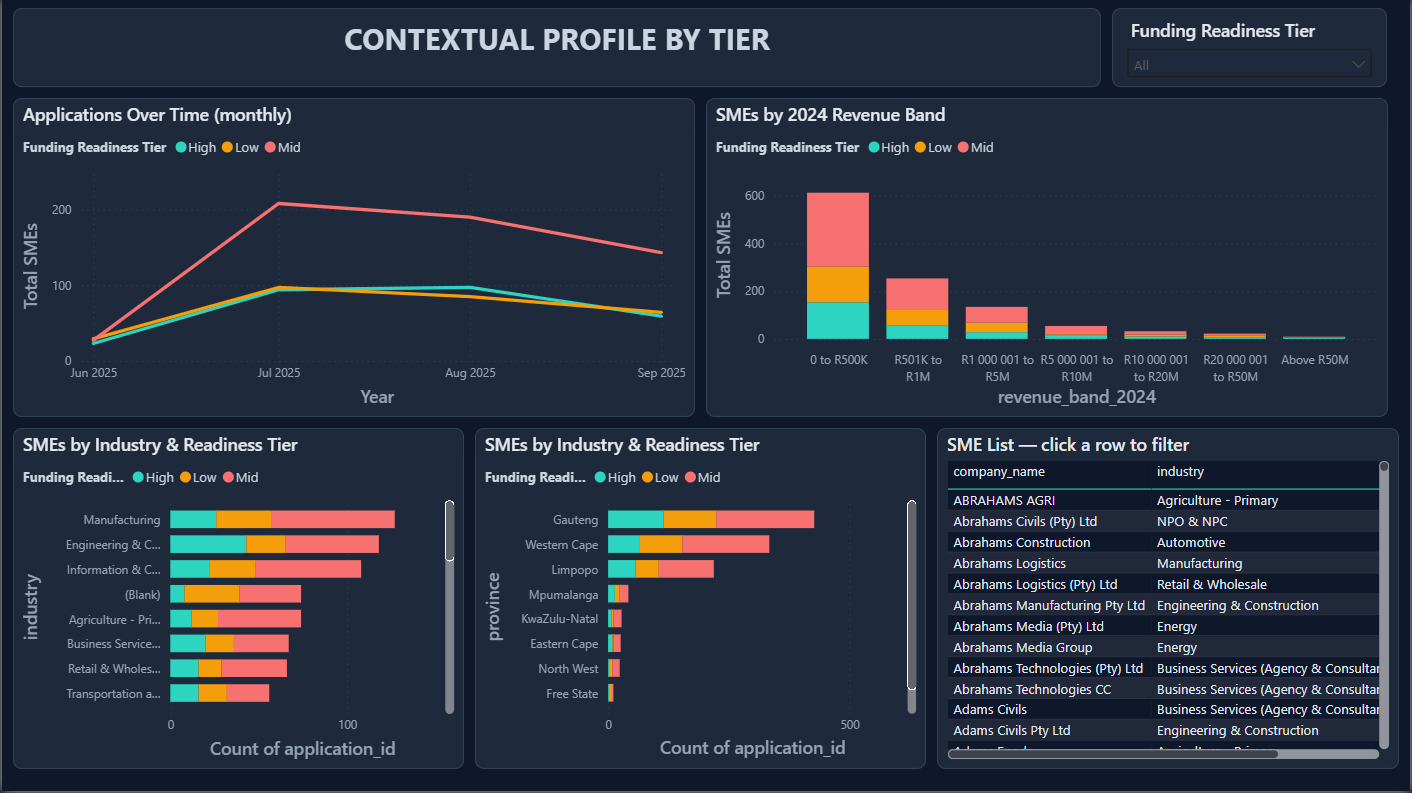
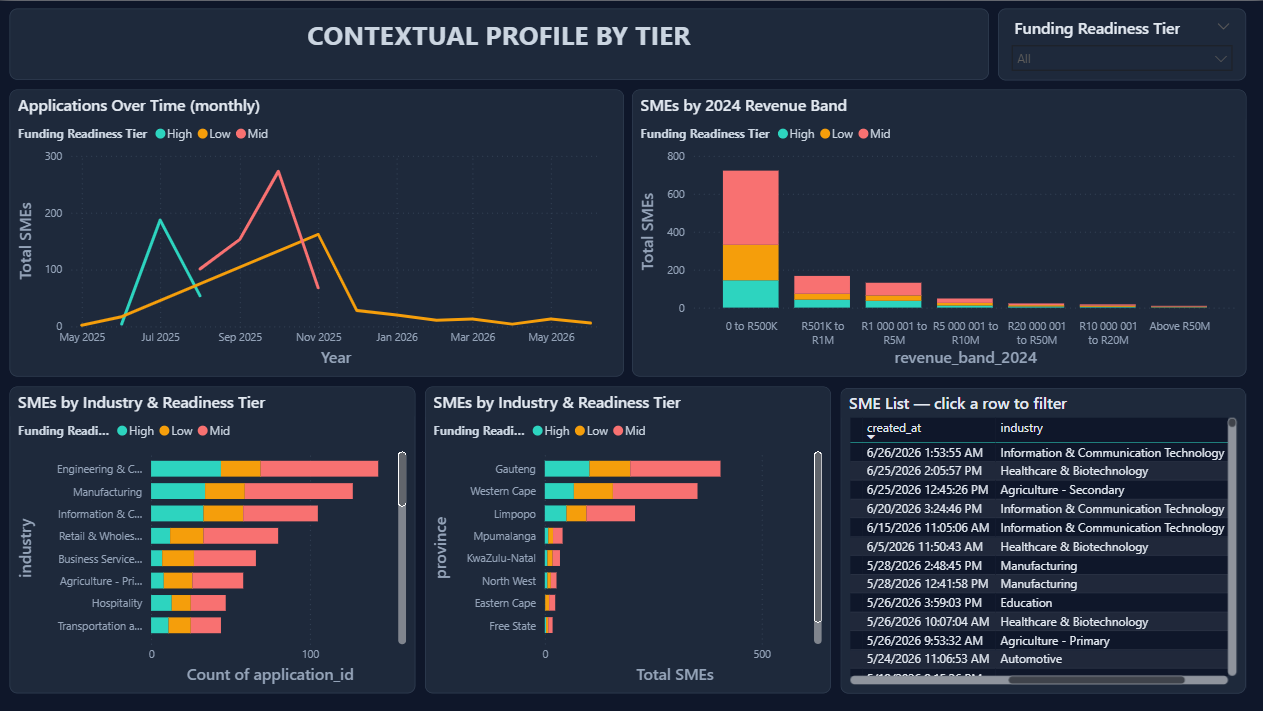
Update

diff --git a/README.md b/README.md
@@ -1,134 +1,73 @@
-**Built a data workflow that sorts 1,100+ SME capital funding applications into three funding-readiness tiers, and set out a recommended strategy for each tier to increase the number of businesses connected with investors.**
+### Overview
 
-**Optimize the SME Campaign conversion rate by connecting the most viable SME candidates to investors as early as possible.  every early completed deal builds the programme's reputation and contributes to the JSE's SME outreach success.**
+**The JSE's SME Capital Matching Initiative connects small businesses with investors and capital to support their growth. In 2025, the initiative received more than 1,100 applications. This number was too large for the team to review and rank manually. To address this, I built a data workflow that scores each applicant on the factors investors consider most important, including B-BBEE transformation credentials, revenue history, capital requested, current number of employees, and projected job creation. The workflow then sorts all 1,116 applicants into three funding readiness tiers, which are High, Mid, and Low. This converts a list of applications into a ranked and structured pipeline that supports decision making.**
+
+### Goal
+
+**The goal was to increase the campaign's conversion rate by identifying the most investable SMEs and presenting them to funders first. A further goal was to provide the SME team with clear evidence to attract new investors into the initiative. Each early and successful deal strengthens the reputation of the programme and supports the JSE's wider SME outreach.**
+
+### What was uncovered
+
+**The workflow identified 245 SMEs in the High tier, 595 in the Mid tier, and 276 in the Low tier. The 245 High tier SMEs are the most ready to receive funding. This number is already higher than the number of SMEs the programme matched with funders in previous rounds, which was 90 in the 2023 pilot and 190 in 2024. For this reason, the High tier is where investors should begin. As a group, these SMEs generated R4.05 billion in revenue while requesting R3.24 billion in capital, which means they are requesting less than they currently earn. This indicates a realistic and low risk profile. In total, they employed 5690 people, they collectively project 11,436 new jobs, and they hold strong B-BBEE credentials, with an average of 95% black ownership. These SMEs also applied earliest in the campaign, which indicates that the relatively credible businesses have confidence in the JSE's SME initiative. As a result, they can be presented to investors immediately.**
+
+### Value delivered
+
+**The project provides the SME team with two assets. The first is a repeatable segmentation model that ranks every future group of applicants automatically, together with a clear strategy to manage each tier. The team can fund the 245 High tier SMEs now, support the growth of the 595 Mid tier businesses, and develop the 276 Low tier applicants for future funding. The second asset is a set of evidence that the team can present to prospective investors. It provides measurable proof of a high quality pipeline with strong transformation credentials, which can be used to attract additional capital into the campaign. In summary, the workflow converts 1,116 applications into both an internal list of priorities and an external case for investment.**
 
 **Note**: The original dataset has been sanitized. Read the details by the [**About the data section**](#about-the-data)
 
 ---
 
-## Summary
-
-The SME Capital Matching team was not fully satisfied with the results achieved on the 2023 and 2024 SME campaigns. I took the 1,000+ applications received from 2025 onwards and built a funding-readiness segmentation data workflow that scores every applicant and places them into tiers, identifying the SMEs most ready to receive capital funding and be introduced to investors. I then provided recommended strategies for each tier, setting out how the businesses in that tier can be connected with investors in order to improve the overall conversion of SMEs into funded businesses.
-
-## Background and problem statement
-
-The JSE runs a programme called [SME Capital Matching](https://www.jse.co.za/services/sme-rise/sme-capital-matching-initiative). Small and medium enterprises apply for funding, and the strongest candidates are introduced to prospective investors. At the time of this work, more than a thousand applications had been received and progress had stalled.
-
-The SME team within Marketing & Corporate Affairs had raised two concerns: the conversion rate, meaning the proportion of applicants who reached an investor, and the turnaround time required to get them there. Neither could be explained by a shortage of applicants or by weak investor appetite. The constraint was that the team had no means of determining, quickly and defensibly, which applicants merited presentation.
-
-I identified three obstacles:
-
-- **The applicant pool was larger than the team could assess manually.** Reviewing more than a thousand applications by hand is slow, and the outcome varies depending on who conducts the review.
-- **The data was not usable as captured.** Applications were submitted through a web form, which introduced substantial quality problems: funding amounts padded with underscore characters (`250000_________`), revenue recorded as text bands rather than values, provinces recorded under four different spellings, duplicate submissions, and blank responses in fields that investors require.
-- **There was no shared definition of funding readiness.** Without an agreed standard, each shortlist reflected individual judgement, and businesses were being presented to investors whose mandates they did not meet.
-
-I identified this gap independently and developed the tool to address it.
-
 ## Deliverables
 
-| File | Description |
-|---|---|
-| [Python_Notebooks/Data_Cleaning.ipynb](Python_Notebooks/Data_Cleaning.ipynb) | The data cleaning workflow, documented step by step |
-| [Python_Notebooks/Funding_Readiness_Segmentation.ipynb](Python_Notebooks/Funding_Readiness_Segmentation.ipynb) | The scoring model and tier segmentation |
-| [Datasets/Capital_Matching_Cleaned_Data.xlsx](Datasets/) | The cleaned dataset |
-| [Datasets/Funding_Readiness_Segmentation.xlsx](Datasets/) | Every SME scored, tiered and ranked |
-| [Funding_Readiness_Methodology.pdf](Funding_Readiness_Methodology.pdf) | How the readiness score is constructed, written for a non-technical reader |
-| [SME_Funding_Optimization_Strategy.pdf](SME_Funding_Optimization_Strategy.pdf) | The recommended action for each tier, covering investor matching and a twelve-month conversion plan |
-| [SME_Capital_Matching_Dashboard.pbix](SME_Capital_Matching_Dashboard.pbix) | Power BI dashboard built on the segmented data |
+| File                                                                                                          | Description                                         |
+| ------------------------------------------------------------------------------------------------------------- | --------------------------------------------------- |
+| [Python_Notebooks/Data_Cleaning.ipynb](Python_Notebooks/Data_Cleaning.ipynb)                                   | The data cleaning workflow, documented step by step |
+| [Python_Notebooks/Funding_Readiness_Segmentation.ipynb](Python_Notebooks/Funding_Readiness_Segmentation.ipynb) | The scoring model and tier segmentation             |
+| [Datasets/Capital_Matching_Cleaned_Data.xlsx](Datasets/)                                                       | The cleaned dataset                                 |
+| [Datasets/Funding_Readiness_Segmentation.xlsx](Datasets/)                                                      | Every SME scored, tiered and ranked                 |
+| [SME_Capital_Matching_Dashboard.pbix](SME_Capital_Matching_Dashboard.pbix)                                     | Power BI dashboard built on the segmented data      |
 
-## The solution
+## Data sources and scope
 
-I built a repeatable workflow that scores every applicant on funding readiness and assigns each one to a tier. This replaces discretionary shortlisting with a consistent and auditable basis for prioritisation, which allows the team to move from sifting applications to matching businesses with investors.
+Every figure in this project traces back to a single file: the export of applications submitted to the JSE's [SME Capital Matching](https://www.jse.co.za/services/sme-rise/sme-capital-matching-initiative) online form. That export is the only input; the two notebooks and the dashboard are all built from it.
 
-Each business receives a score between 0 and 100, calculated against four weighted pillars drawn from fields the application form already collects. The score determines the tier:
+**Where the data comes from.** Each row is one funding application, self-reported by the business through a public web form. Nothing is drawn from external registries or credit bureaus — the analysis works entirely with what the applicant chose to disclose, which is exactly the position the SME team is in when it decides who to advance.
 
-| Tier | Score | Definition | Recommended action |
-|---|---|---|---|
-| **High** | 62–100 | Established, credible businesses submitting appropriately sized funding requests | Package and present to investors immediately |
-| **Mid** | 48–61 | Genuine operating businesses with addressable gaps | Develop: provide readiness support, right-size the funding request, and re-score |
-| **Low** | 0–47 | Early-stage businesses, or applications with material information gaps | Remediate before any introduction: complete the missing data and recalibrate the funding request |
+**Period and volume.** The applications span **29 May 2025 to 26 June 2026**. The raw export holds **1,186 rows**, which resolve to **1,116 unique businesses** once exact copies and re-submissions are removed. 
 
-The four pillars, and the reasoning behind each weighting:
+**Fields captured.** The form collected **27 fields** per application. The ones that drive the analysis fall into five groups:
 
-| Pillar | Weight | The question it answers |
-|---|---|---|
-| Revenue & Growth | 30 | Is this a genuine business, and is it growing? |
-| Jobs & Scale | 25 | Is the business trading, and will funding create employment? |
-| Funding-Ask Viability | 25 | Is the requested amount proportionate to revenue, and is the application complete enough to be assessed? |
-| Transformation (B-BBEE) | 20 | What is the B-BBEE level, and what is the extent of Black, women, youth and disability ownership? |
+| Group               | Fields used                                                      |
+| ------------------- | ---------------------------------------------------------------- |
+| Identity & location | Company name, registration number, province, city/town, industry |
+| Funding request     | Amount requested, type of funding, purpose of funding            |
+| Financial history   | Annual revenue bands for 2023 and 2024, actual 2025 revenue      |
+| Scale & impact      | Existing employees, anticipated new jobs, number of shareholders |
+| Transformation      | B-BBEE level, and Black, women, youth and disability ownership   |
 
-One principle governs all four pillars: **a missing response is scored as neutral, never as zero.** No business is penalised for a question the application form failed to capture properly.
+**A word on quality and scope.** The form exported clean-looking headers but messy values: funding amounts padded with trailing underscores (`250000_________`), revenue recorded as text bands rather than numbers, provinces spelled four different ways, malformed registration numbers, free text sitting in numeric fields, duplicate submissions, and blanks in fields investors require. Roughly one field in ten arrived unusable as captured. Repairing that data — without discarding businesses for gaps the form itself created — is the first half of the work; scoring what remains is the second. The dataset published here is a sanitised stand-in for the confidential original; the [About the data](#about-the-data) section explains exactly how and why.
 
-### Portfolio outcome
+## Methodology
 
-| Tier | Businesses | Share | Avg. score | Avg. employees | Total requested |
-|---|---|---|---|---|---|
-| High | 273 | 24.5% | 70.5 | 23.5 | R4.89bn |
-| Mid | 568 | 50.9% | 54.4 | 5.1 | R1.68bn |
-| Low | 275 | 24.6% | 40.3 | 3.4 | R1.16bn |
-
-Three findings from this segmentation shaped the recommended strategy.
-
-**The High tier is comparatively small but immediately bankable.** These businesses have substantive operations, meaningful employment figures, and funding requests proportionate to their revenue. They represent an investor-ready pipeline that requires no further preparatory work, and they account for the majority of the total capital sought.
-
-**The Mid tier is the centre of gravity of the portfolio.** It comprises approximately half of all applicants and represents the largest source of untapped pipeline value. These are genuine trading businesses whose shortcomings are specific and addressable. The appropriate response is structured development rather than rejection, and converting even a portion of this tier materially increases the number of businesses reaching investors.
-
-**The Low tier presents two problems, both of which are remediable.** These businesses are characterised by funding requests disproportionate to their revenue and by incomplete application data. Both can be resolved through direct engagement with the applicant, which makes this tier a defined remediation workload rather than a write-off.
-
-Transformation credentials are strong across the applicant pool as a whole. This is commercially significant, as B-BBEE standing and inclusive ownership are precisely the criteria many investors are mandated to apply. The scoring model surfaces these businesses rather than allowing them to remain undifferentiated within a pool of a thousand applications.
-
-### The dashboard
-
-The scored output feeds a three-page Power BI report, built on the dark theme in [PowerBI_Dark_Modern_Theme.json](PowerBI_Dark_Modern_Theme.json). Each tier keeps the same colour across every page, so the views can be read together, and the tier slicer filters an entire page at once.
-
-#### Executive Summary
-
-The portfolio at a glance: KPI tiles for total SMEs, average readiness score, total capital requested and the size of the High tier, alongside the tier split, the provincial footprint by tier, and the average contribution each of the four pillars makes to the score.
-
-![Executive Summary](docs/images/executive_summary.png)
-
-#### Funding Readiness Tiers
-
-The scoring view. A tier comparison table of the fields investors ask for, B-BBEE transformation score by tier, median ask-to-revenue ratio against the 0.5–5× sweet spot, employees and anticipated jobs by tier, and a searchable SME list where clicking a row filters the page to that business.
-
-![Funding Readiness Tiers](docs/images/funding_readiness_tiers.png)
-
-#### Contextual Profile
-
-Where the applicants come from and what they look like: applications over time, distribution across 2024 revenue bands, and industry breakdown by readiness tier — the view used to decide which sectors and provinces warrant targeted development work.
-
-![Contextual Profile](docs/images/contextual_profile.png)
-
-### Value delivered
-
-The workflow converts an unranked applicant pool into a prioritised, decision-ready portfolio. Specifically, it:
-
-- establishes a single documented definition of funding readiness that the team can apply consistently and explain to investors and applicants alike;
-- reduces turnaround time by removing manual assessment from the critical path, so that an investor-ready shortlist is available on demand rather than after weeks of review;
-- improves conversion by ensuring the businesses presented to investors are those most likely to meet investor mandates;
-- identifies, quantifies and prioritises the development work required to convert the Mid and Low tiers, turning the remainder of the pool from a backlog into a managed pipeline;
-- produces an auditable and reproducible record of how every business was assessed and ranked.
-
-## The process
-
-The workflow runs end to end from a single raw file. I wrote both notebooks as instructional documents: each code cell is preceded by a plain-language explanation, so that a non-technical reader can follow what is being done and why.
+The workflow runs end to end from the raw file, in two documented notebooks that hand off through a single Excel file. Both notebooks are written as instructional documents — every code cell is preceded by a plain-language explanation — so a non-technical reader can follow what is done and why, and re-running them on the same input reproduces the same output exactly.
 
 ```
 Datasets/capital_matching_applications.csv      raw form export — 1,186 rows × 27 columns
         │
         ├─ Python_Notebooks/Data_Cleaning.ipynb
-        │     Rename 27 survey-question headers to tidy names (retained as a data dictionary).
-        │     Strip underscore padding and parse monetary values into clean Rand figures.
-        │     Cap implausible outliers (any value above R2bn is treated as a capture error).
+        │     Rename 27 survey headers to tidy names (kept as a data dictionary).
+        │     Strip underscore padding and parse money text into clean Rand figures.
+        │     Cap implausible outliers (any value above R2bn treated as a capture error).
         │     Convert revenue text-bands to an ordered 0–6 scale with Rand midpoints.
-        │     Convert ownership percentage bands to numeric values; extract B-BBEE level.
+        │     Convert ownership bands to numbers; extract the B-BBEE level.
         │     Standardise province spellings (KZN → KwaZulu-Natal); tidy cities and emails.
         │     De-duplicate: 68 exact copies and 2 re-submissions removed.
         ▼
 Datasets/Capital_Matching_Cleaned_Data.xlsx     clean, analysis-ready — 1,116 × 41
         │
         ├─ Python_Notebooks/Funding_Readiness_Segmentation.ipynb
-        │     Score the four pillars (0–1 each), apply weightings, and sum to a 0–100 readiness score.
+        │     Score four pillars (0–1 each), apply weights, sum to a 0–100 readiness score.
         │     Assign a tier (High / Mid / Low) and rank every business, where 1 = most ready.
         ▼
 Datasets/Funding_Readiness_Segmentation.xlsx    scored, tiered and ranked — 1,116 × 24
@@ -136,21 +75,137 @@ Datasets/Funding_Readiness_Segmentation.xlsx    scored, tiered and ranked — 1,
         └─ SME_Capital_Matching_Dashboard.pbix   Power BI: tier, industry and province views
 ```
 
-**Tools:** Python (pandas, NumPy, openpyxl) in Jupyter for cleaning and modelling; Excel as the hand-off format, as this is what the business already works in; Power BI for the reporting layer.
+### Step 1 — Cleaning and preparation
 
-Both notebooks locate the `Datasets` folder automatically and execute from top to bottom, starting from the raw CSV. Re-running the pipeline on the same input reproduces the same output exactly, which means the segmentation can be refreshed as new applications arrive without any loss of consistency.
+The cleaning notebook is where the messy export becomes a table the model can trust. It renames all 27 survey headers to short names (retained as a data dictionary), strips the underscore padding from money fields and parses them into real Rand values, caps any amount above R2 billion as a capture error, maps each revenue text-band onto an ordered 0–6 scale with a representative Rand midpoint, converts the four ownership percentage bands to midpoint numbers, extracts the numeric B-BBEE level, standardises the nine province spellings, and lowercases emails so duplicates can be matched. Two de-duplication passes then remove 68 exact copies and 2 re-submissions. The recovery is stark: usable funding-amount values rise from **10 to 1,109**, and usable 2025 revenue figures from **0 to 1,112**.
 
-## About the data
+### Step 2 — The scoring model
+
+Each business receives a **Funding Readiness Score from 0 to 100**, built from four weighted pillars drawn only from fields the form already collects. Each pillar is calculated as a value between 0 and 1, multiplied by its weight, and the four results are summed.
+
+| Pillar                  | Weight       | The question it answers                      | How it is scored                                                                              |
+| ----------------------- | ------------ | -------------------------------------------- | --------------------------------------------------------------------------------------------- |
+| Revenue & Growth        | **30** | Is this a real, growing business?            | 60% revenue size (latest band ÷ 6), 40% year-on-year band movement                           |
+| Jobs & Scale            | **25** | Is it trading, and will funding create jobs? | 55% current employees, 45% anticipated jobs, both log-scaled so a count of 50 = full marks    |
+| Funding-Ask Viability   | **25** | Is the ask sensible, and the form complete?  | 60% ask-to-revenue ratio (0.5×–5× is the target range), 40% completeness of ten key fields |
+| Transformation (B-BBEE) | **20** | What are the transformation credentials?     | 50% B-BBEE level, 50% average of the four ownership percentages                               |
+
+**The weightings reflect what funders act on.** Revenue and growth carry the most weight because they are the clearest evidence of a genuine business. Jobs and funding viability follow, because a proportionate request from an operating employer is what a funder can actually structure. Transformation carries the lowest weight — not because it matters least, but because the pool is already highly transformed (an average of roughly 92% Black ownership across the pool), so it separates one applicant from another less than the other three pillars. It is retained because it is a genuine requirement in many funders' mandates.
+
+**One fairness rule governs every pillar: a missing answer is scored as neutral (0.5), never as zero.** No business is penalised for a question the form failed to capture. The two deliberate exceptions — where a blank genuinely means "none" — are a reported revenue of nothing (read as pre-revenue) and a blank headcount or job figure (read as no employment recorded).
+
+### Step 3 — Tiering
+
+Fixed score thresholds convert the score into three tiers, so a tier keeps the same meaning when future rounds are scored:
+
+| Tier           | Score   | Definition                                                             | Recommended action                                                           |
+| -------------- | ------- | ---------------------------------------------------------------------- | ---------------------------------------------------------------------------- |
+| **High** | 62–100 | Established, credible businesses making appropriately sized requests   | Package and present to investors immediately                                 |
+| **Mid**  | 48–61  | Genuine operating businesses with specific, addressable gaps           | Develop: provide readiness support, right-size the ask, and re-score         |
+| **Low**  | 0–47   | Early-stage businesses, or applications with material information gaps | Remediate before any introduction: complete the data and recalibrate the ask |
+
+Every business is also given a rank where 1 = most ready, with ties settled alphabetically so the same data always produces the same file. The full formula for each pillar, with a worked example traced end to end, is documented cell by cell inside [Funding_Readiness_Segmentation.ipynb](Python_Notebooks/Funding_Readiness_Segmentation.ipynb).
+
+## Tools and technologies
+
+| Tool                             | Role in the project                                     |
+| -------------------------------- | ------------------------------------------------------- |
+| **Python** (pandas, NumPy) | Cleaning, transformation and the scoring model          |
+| **openpyxl**               | Writing the styled, tier-colour-coded Excel outputs     |
+| **Jupyter Notebook**       | The documented, reproducible workflow for both stages   |
+| **Microsoft Excel**        | The hand-off format the SME team already works in       |
+| **Power BI**               | The three-page reporting layer built on the scored data |
+| **Git / GitHub**           | Version control and publication of the project          |
+
+The reporting layer uses a custom dark theme, [PowerBI_Dark_Modern_Theme.json](PowerBI_Dark_Modern_Theme.json), so each tier keeps the same colour on every page and the views can be read together.
+
+## Key findings
+
+Scoring all 1,116 businesses produces a clear three-tier shape. The High tier is small but immediately bankable, the Mid tier holds the bulk of the pipeline, and the Low tier is a defined remediation workload rather than a write-off. Across the whole pool the businesses request **R10.30bn** of capital, average a readiness score of **54.8 / 100**, and project **26,506** new jobs.
+
+| Tier | Businesses | Share | Total ask | Total revenue | Avg. employees | Avg. new jobs | Black ownership |
+| ---- | ---------- | ----- | --------- | ------------- | -------------- | ------------- | --------------- |
+| High | 245        | 22.0% | R3.24bn   | R4.05bn       | 23.2           | 47.1          | 95.4%           |
+| Mid  | 595        | 53.3% | R2.66bn   | R1.77bn       | 4.6            | 20.1          | 92.3%           |
+| Low  | 276        | 24.7% | R4.40bn   | R1.80bn       | 2.9            | 14.0          | 86.8%           |
+| **Total** | **1,116** | **100%** | **R10.30bn** | **R7.62bn** | —          | —             | 91.6%           |
+
+The detail behind each headline is set out below, and reproduced visually in the Power BI report.
+
+**1. The High tier is the low-risk core of the pipeline.** Only 22% of applicants reach it, yet it is the one tier that asks for **less than it earns** — **R3.24bn** requested against **R4.05bn** of revenue. These businesses employ roughly **5,690** people, project about **11,436** new jobs, and hold the strongest transformation profile in the pool (**95.4%** average Black ownership). This is an investor-ready shortlist that needs no further preparation.
+
+**2. The Low tier asks for the most while earning the least.** Counter-intuitively, the least-ready tier carries the **largest total funding ask of all — R4.40bn** — against just **R1.80bn** of revenue, from the smallest businesses in the pool (an average of 2.9 employees). Its median request of **R800K** even exceeds the Mid tier's **R323.5K**. These are asks disproportionate to trading history, which no funder can underwrite as written, so right-sizing the request is the single highest-leverage intervention for the lower tiers.
+
+**3. Projected job creation is substantial and concentrated.** The pool projects **26,506 new jobs** in total. The High tier alone accounts for roughly **11,436** of them — an average of **47 per business** — and, because those businesses already employ at scale, it is the tier most credible to deliver, making the employment and transformation case development-finance investors are mandated to fund.
+
+**4. Transformation credentials are strong across the entire pool.** Average Black ownership is **91.6%**, and every tier scores highly on the B-BBEE pillar (**15, 14 and 13 of 20** for High, Mid and Low). This is commercially significant, because B-BBEE standing and inclusive ownership are precisely the criteria many investors are required to apply. The model surfaces these businesses rather than leaving them undifferentiated in a pool of a thousand.
+
+**5. The strongest businesses applied earliest.** Overall application volume built through the campaign, but the High-tier businesses cluster in the earliest submissions — a signal that the most credible operators moved first, and a reason to work the High tier without delay.
+
+**6. Applications concentrate in three provinces.** **Gauteng, the Western Cape and Limpopo** account for the large majority of the pool, and the same three dominate the High tier. This tells the team where an in-person or targeted development effort would reach the most businesses.
+
+The scored output feeds a three-page Power BI report. Each tier keeps its colour across every page, and the tier slicer filters a whole page at once.
+
+**Funding Readiness (Executive Summary)** — the portfolio at a glance: KPI tiles for total SMEs (1,116), average readiness score (54.8 / 100), total funding ask (R10.30bn) and the size of the investor-ready High tier (245, 22.0%), alongside the tier split, the provincial footprint by tier, and each pillar's average contribution to the score.
+
+![Funding Readiness — Executive Summary](docs/images/executive_summary.png)
+
+**Scoring Dashboard — High / Mid / Low investor profiles** — the scoring view: KPI tiles including total jobs anticipated (26,506), a tier comparison of the investor-relevant fields, average B-BBEE transformation score by tier, total funding ask against revenue by tier, employees and anticipated jobs by tier, and a searchable SME list where clicking a row filters the page to that business.
+
+![Scoring Dashboard — Investor Profiles](docs/images/funding_readiness_tiers.png)
+
+**Contextual Profile by Tier** — where the applicants come from and what they look like: applications over time, distribution across 2024 revenue bands, and industry and provincial breakdowns by readiness tier — the view used to decide which sectors and provinces warrant targeted development work.
+
+![Contextual Profile](docs/images/contextual_profile.png)
+
+## Recommendations
+
+The tiers are not a ranking to be worked top to bottom; each calls for a different action, and running the three in parallel is what converts the pool into funded deals.
+
+**Fund the High tier now.** The 245 High-tier businesses are investor-ready as they stand: substantive operations, meaningful headcounts, and — uniquely — requests smaller than their revenue. They should be packaged and taken to investors immediately, matched to mandates by sector, province and transformation profile. This tier alone already exceeds the number of businesses the programme matched in prior rounds, so it is where the fastest conversions — and the strongest reference stories for attracting new investors — will come from.
+
+**Develop the Mid tier.** At 595 businesses, more than half the pool, this is the largest source of untapped value. These are genuine trading businesses whose shortcomings are specific and correctable — most often a request that needs right-sizing or a handful of missing fields. The right response is structured readiness support and a re-score, not rejection. Converting even a portion of this tier materially increases the number of businesses reaching investors, so it warrants the bulk of the team's development effort.
+
+**Remediate the Low tier over time.** The 276 Low-tier businesses share two fixable problems: funding requests far out of proportion to revenue — this tier asks for R4.40bn, more than any other, against just R1.80bn of revenue — and incomplete applications. Both are resolved through direct engagement, completing the missing data and recalibrating the ask, after which the business is re-scored and can rise. This makes the tier a defined, prioritised remediation workload for later rounds rather than a write-off.
+
+**Use the pipeline as an investor-attraction asset.** Beyond the internal priority list, the segmentation is evidence: a quantified, transformation-strong pipeline the team can put in front of prospective funders to draw new capital into the campaign.
+
+## Limitations and assumptions
+
+The model is deliberately transparent, which means its assumptions should be read alongside its results.
+
+- **Self-reported, unverified data.** Every figure is what the applicant entered; nothing is confirmed against registries, financials or credit data. The score measures *readiness to present*, not creditworthiness — a funder's due diligence still follows.
+- **Banded financials.** 2023 and 2024 revenue arrive as ranges, not exact figures, so the model uses representative midpoints. This is precise enough to rank and tier, but individual ratios are approximate.
+- **Missing answers are neutralised, not penalised.** Blanks are scored at 0.5 so no business is punished for the form's gaps. The trade-off is that a genuinely incomplete application can score similarly to a merely modest one; the completeness component and the Low-tier remediation step are what catch this.
+- **Fixed weights and thresholds.** The 30/25/25/20 pillar weights and the 62 / 48 tier cut-offs encode a defensible view of funding readiness, but they are choices. They live in one place in the notebook and can be re-tuned as the programme learns what converts.
+- **Modelling caps.** Amounts above R2bn are treated as capture errors, ask-to-revenue scoring saturates beyond the target range, and job/employee scaling flattens above 50 — all sensible guards that intentionally compress the extremes.
+
+### About the data
 
 **The dataset in this repository is synthetic.** The original applications contain real businesses, named individuals, email addresses, telephone numbers and company registration numbers, and therefore cannot be published. Every identifying value has been replaced with a fictitious equivalent.
 
-The following characteristics of the original data have been deliberately preserved, as they are precisely what the workflow exists to address:
+The following characteristics of the original data have been deliberately preserved, because they are precisely what the workflow exists to address:
 
 - the original 27 column headers, exactly as the form exported them;
 - the same row count and duplicate structure (1,186 rows resolving to 1,116 unique businesses);
-- the same categories of data quality problem, including underscore-padded amounts, revenue text-bands, inconsistent province names, malformed registration numbers, free text entered into numeric fields, and missing responses;
-- realistic distributions, so that the model produces a portfolio shape comparable to the original.
+- the same categories of data-quality problem — underscore-padded amounts, revenue text-bands, inconsistent province names, malformed registration numbers, free text in numeric fields, and missing responses;
+- realistic distributions, so the model produces a portfolio shape comparable to the original.
 
-The pipeline, the cleaning rules, the scoring model and the dashboard are the originals and run unchanged against this data. Both PDF documents have been regenerated against this repository's dataset, so every figure and worked example they quote matches the tier counts above and can be verified directly against the output spreadsheets.
+The pipeline, the cleaning rules, the scoring model and the dashboard are the originals and run unchanged against this data. **The dashboard screenshots and the headline figures in this README reflect the original, confidential dataset** — the real results of the work. Re-running the published notebooks on the synthetic data reproduces the same workflow and a comparable portfolio shape, but the exact tier counts and totals will differ slightly from the confidential figures shown here, by design.
 
-[**Back to the Top**](#summary)
+## Next steps
+
+- **Run each new round through the same pipeline.** Because the workflow is fully reproducible, every future intake of applications can be cleaned, scored and tiered on demand, keeping an investor-ready shortlist available at all times rather than after weeks of manual review.
+- **Close the loop on outcomes.** As deals close, feed which tiers actually convert back into the model and re-tune the weights and thresholds against real conversion data.
+- **Track businesses across rounds.** Re-scoring lets the team see Mid- and Low-tier businesses that improve after development support move up the tiers, turning the model into a progress tracker as well as a filter.
+- **Extend the inputs.** Where consent and access allow, verified financials or registry checks could complement the self-reported fields and sharpen the higher tiers.
+
+## Author and contact
+
+**Ndivhuwo** — data analysis, modelling and dashboard.
+
+- Email: [ndivhuwojse@gmail.com](mailto:ndivhuwojse@gmail.com)
+- GitHub: [github.com/MainDevWork](https://github.com/MainDevWork)
+- Project: [SME_Capital_Funding_Optimization](https://github.com/MainDevWork/SME_Capital_Funding_Optimization)
+
+[**Back to the top**](#overview)
